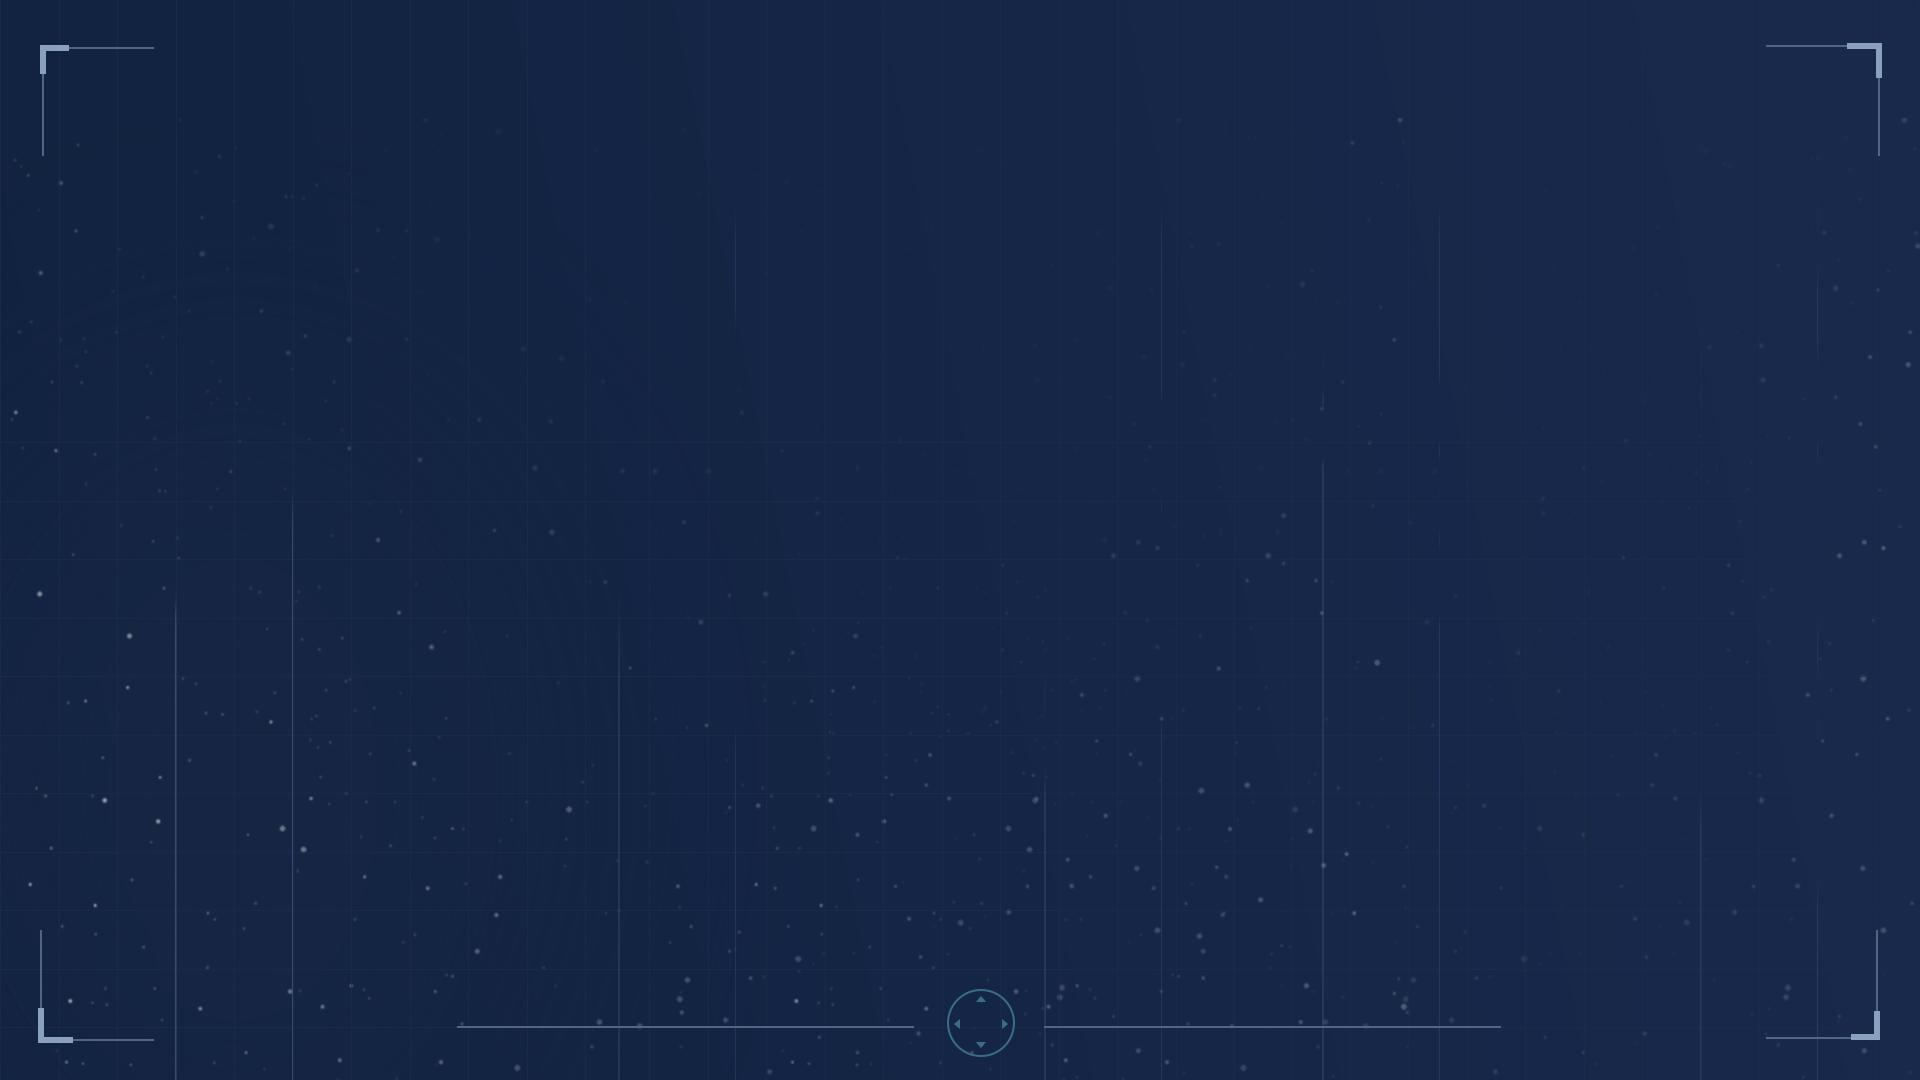
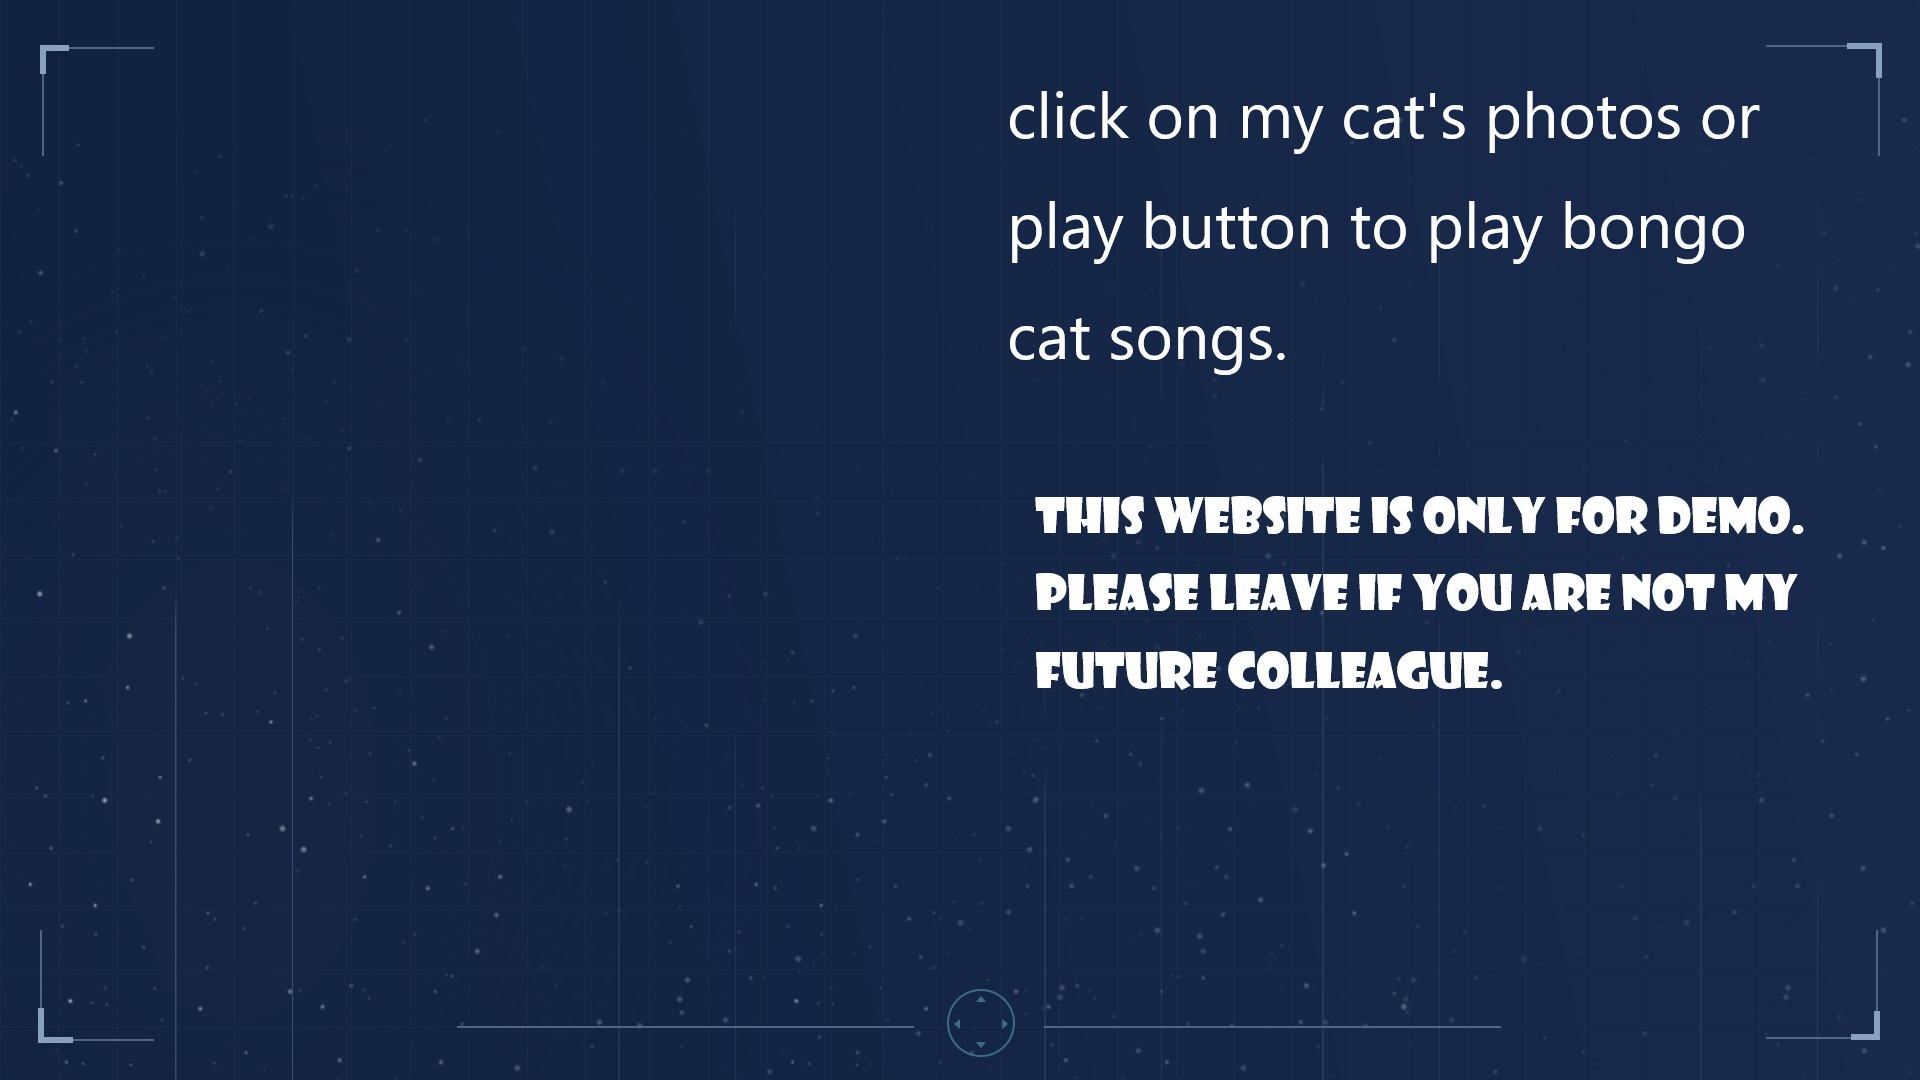
now can pause/ switch to next/ switch to prev/volume control/ show song name

diff --git a/index.html b/index.html
@@ -11,34 +11,34 @@
   <body>
     <div class="banner">
       <ul>
-        <li id="p1" datasrc="music/music1.mp3" title="music one">
+        <li id="p1" datasrc="music/music1.mp3" title="Cat song 1">
           <img src="./img/cubi1.jpg" width="80" />
         </li>
-        <li id="p2" datasrc="music/music2.mp3" title="music one">
+        <li id="p2" datasrc="music/music2.mp3" title="Cat song 2">
           <img src="img/cubi2.jpg" width="80" />
         </li>
-        <li id="p3" datasrc="music/music3.mp3" title="music one">
+        <li id="p3" datasrc="music/music3.mp3" title="Cat song 3">
           <img src="img/cubi3.jpg" width="80" />
         </li>
-        <li id="p4" datasrc="music/music4.mp3" title="music one">
+        <li id="p4" datasrc="music/music4.mp3" title="Cat song 4">
           <img src="img/cubi4.jpg" width="80" />
         </li>
-        <li id="p5" datasrc="music/music5.mp3" title="music one">
+        <li id="p5" datasrc="music/music5.mp3" title="Cat song 5">
           <img src="img/cubi5.jpg" width="80" />
         </li>
-        <li id="p6" datasrc="music/music6.mp3" title="music one">
+        <li id="p6" datasrc="music/music6.mp3" title="Cat song 6">
           <img src="img/cubi6.jpg" width="80" />
         </li>
-        <li id="p7" datasrc="music/music7.mp3" title="music one">
+        <li id="p7" datasrc="music/music7.mp3" title="Cat song 7">
           <img src="img/cubi7.jpg" width="80" />
         </li>
-        <li id="p8" datasrc="music/music8.mp3" title="music one">
+        <li id="p8" datasrc="music/music8.mp3" title="Cat song 8">
           <img src="img/cubi8.jpg" width="80" />
         </li>
-        <li id="p9" datasrc="music/music9.mp3" title="music one">
+        <li id="p9" datasrc="music/music9.mp3" title="Cat song 9">
           <img src="img/cubi9.jpg" width="80" />
         </li>
-        <li id="p10" datasrc="music/music10.mp3" title="music one">
+        <li id="p10" datasrc="music/music10.mp3" title="Cat song 10">
           <img src="img/cubi10.jpg" width="80" />
         </li>
       </ul>
@@ -49,10 +49,20 @@
       <div class="music_img">
         <img src="./img/cubi2.jpg" alt="" width="80" />
       </div>
-      <div class="song_name">Something</div>
-      >
+      <div class="song_name">play a song</div>
+
+      <div class="slidecontainer">
+        <input
+          type="range"
+          min="1"
+          max="100"
+          value="20"
+          class="slider"
+          id="myRange"
+        />
+      </div>
       <div class="btn">
-        <a href="#" class="player_pause" title="pause"></a>
+        <a href="#" class="player_continue" title="pause"></a>
         <a href="#" class="player_next" title="next"></a>
         <a href="#" class="player_prev" title="prev"></a>
       </div>

diff --git a/js/music.js b/js/music.js
@@ -4,32 +4,63 @@ var image = $(".music .music_img img");
 var songname = $(".music .song_name");
 var prev = $(".music .btn .player_prev");
 var next = $(".music .btn .player_next");
-var pause = $(".music .btn .player_pause");
+var pause = $(".music .btn .player_continue");
 var mp3 = $(".music .songs");
 var isplaying = false;
+var slider = document.getElementById("myRange");
 
 pause.click(function () {
   if (isplaying) {
     unspin();
     change_icon_continue();
     isplaying = false;
+    mp3.get(0).pause();
   } else {
     spin();
     change_icon_pause();
     isplaying = true;
+    mp3.get(0).play();
+    mp3.get(0).volume = slider.value / 100;
+
+    change_background(index + 1);
   }
+});
+prev.click(function () {
+  index--;
+  if (index < 0) {
+    index = songlist.length - 1;
+  }
+  change_background(index + 1);
+  change_album(index + 1);
+  play();
+});
+
+next.click(function () {
+  index++;
+  if (index > songlist.length - 1) {
+    index = 0;
+  }
+  change_background(index + 1);
+  change_album(index + 1);
+  play();
 });
 
 songlist.click(function () {
   index = $(this).index();
   change_background(index + 1);
-  change_album_pic(index + 1);
+  change_album(index + 1);
   play();
+  change_icon_pause();
 });
+
+slider.oninput = function () {
+  mp3.get(0).volume = this.value / 100;
+};
 
 function play() {
   mp3.attr("src", songlist.eq(index).attr("datasrc"));
   mp3.get(0).play();
+  mp3.get(0).volume = slider.value / 100;
   isplaying = true;
 }
 
@@ -40,8 +71,9 @@ function change_background(idx) {
   });
 }
 
-function change_album_pic(idx) {
+function change_album(idx) {
   image.attr("src", "img/cubi" + idx + ".jpg");
+  songname.html(songlist.eq(idx).attr("title"));
   spin();
 }
 

diff --git a/css/music.css b/css/music.css
@@ -1,6 +1,5 @@
-/*Todo: change color when cursor above*/
-/*Todo: change icon when hit pause*/
-/*change icon*/
+/*Todo:add process bar*/
+/*Todo:add bungo cat */
 /**/
 @charset "utf-8";
 body {
@@ -99,7 +98,33 @@ body {
   color: whitesmoke;
   font-size: 30px;
   margin-left: 50px;
-  margin-top: 20px;
+  margin-top: 30px;
+}
+.slidecontainer {
+  width: 15%; /* Width of the outside container */
+  position: absolute;
+  margin-top: 40px;
+  margin-left: 300px;
+}
+.slider {
+  -webkit-appearance: none;
+  width: 100%;
+  height: 7px;
+  border-radius: 5px;
+  background: #525050;
+  outline: none;
+  opacity: 0.7;
+  -webkit-transition: 0.2s;
+  transition: opacity 0.2s;
+}
+.slider::-webkit-slider-thumb {
+  -webkit-appearance: none;
+  appearance: none;
+  width: 15px;
+  height: 15px;
+  border-radius: 50%;
+  background: #04aa6d;
+  cursor: url("../img/Bongo_Cat_Pointer.png"), pointer;
 }
 
 /* buttons*/
@@ -114,6 +139,7 @@ body {
   height: 40px;
   background: url(../img/icons.jpg);
   margin-left: 20px;
+  margin-top: 30px;
 }
 .music .btn .player_prev {
   background-position: -101px -37px;
@@ -124,16 +150,18 @@ body {
   background-size: 241px;
 }
 .music .btn .player_pause {
-  background-position: 232px -5px;
+  background-position: 187px -5px;
   background-size: 241px;
 }
 .music .btn .player_continue {
-  background-position: 187px -5px;
+  background-position: 232px -5px;
   background-size: 241px;
 }
 .music .hide {
   float: right;
   background: black;
+  width: 10px;
+  height: inherit;
 }
 @keyframes spin {
   from {
